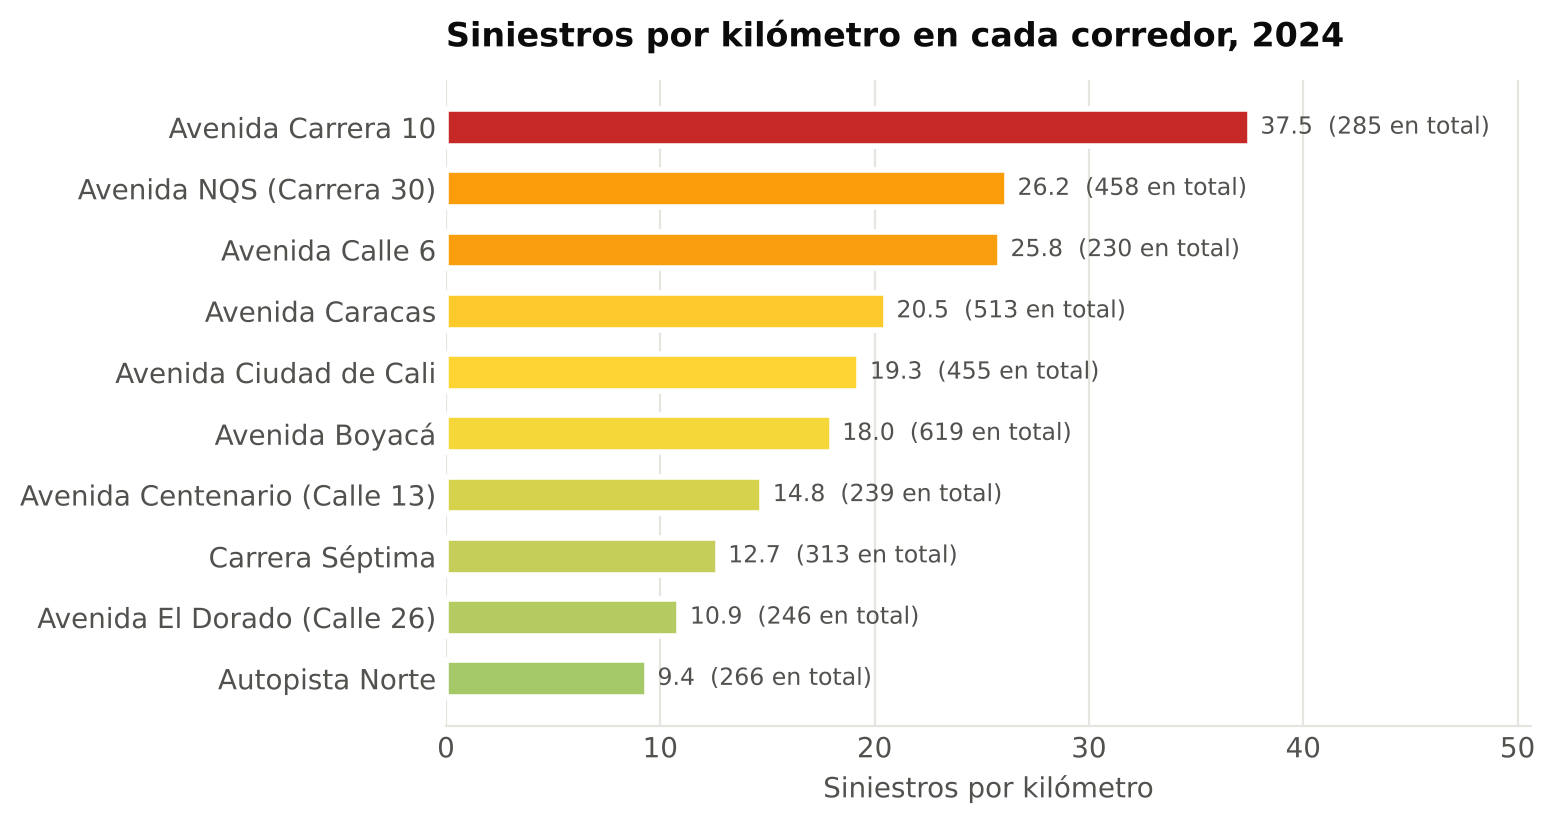
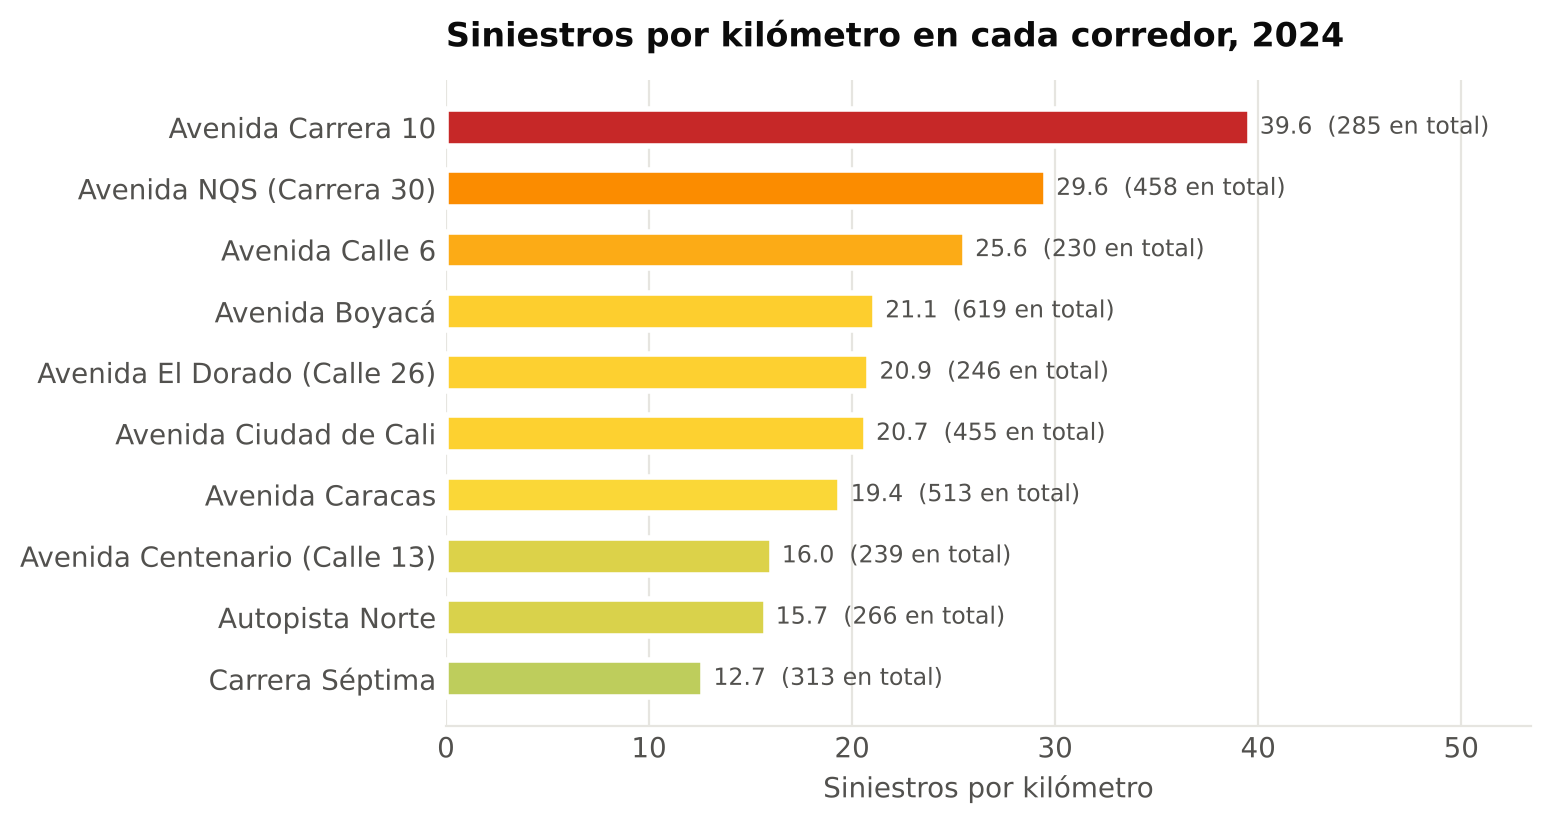
Longitudes de los corredores desde la Malla Vial Integral de Bogotá; H1 recalculada

diff --git a/docs/main.tex b/docs/main.tex
@@ -789,16 +789,16 @@ apariciones, sin realizar una selección aleatoria.
 \textbf{Orden} & \textbf{Corredor} & \textbf{Apariciones} & \textbf{Longitud}\newline\textbf{(km)}\\
 \midrule
 \endhead
-1 & Avenida Boyacá & 637 & 34,4\\
-2 & Avenida Caracas & 525 & 25,0\\
-3 & Avenida Ciudad de Cali & 470 & 23,6\\
-4 & Avenida NQS (Carrera 30) & 467 & 17,5\\
+1 & Avenida Boyacá & 637 & 29,3\\
+2 & Avenida Caracas & 525 & 26,4\\
+3 & Avenida Ciudad de Cali & 470 & 22,0\\
+4 & Avenida NQS (Carrera 30) & 467 & 15,5\\
 5 & Carrera Séptima & 316 & 24,7\\
-6 & Avenida Carrera 10 & 297 & 7,6\\
-7 & Avenida El Dorado (Calle 26) & 288 & 22,6\\
-8 & Avenida Calle 6 & 274 & 8,9\\
-9 & Autopista Norte & 267 & 28,4\\
-10 & Avenida Centenario (Calle 13) & 259 & 16,2\\
+6 & Avenida Carrera 10 & 297 & 7,2\\
+7 & Avenida El Dorado (Calle 26) & 288 & 11,8\\
+8 & Avenida Calle 6 & 274 & 9,0\\
+9 & Autopista Norte & 267 & 16,9\\
+10 & Avenida Centenario (Calle 13) & 259 & 14,9\\
 \bottomrule
 \end{longtable}
 \endgroup
@@ -813,15 +813,19 @@ de la tabla \ref{tab:seleccion-corredores} no deben sumarse como eventos
 únicos ni confundirse con las frecuencias de la tabla
 \ref{tab:distribucion-corredores}.
 
-Las longitudes se incorporaron del archivo de insumos externos del
-proyecto. Este registra OpenStreetMap como fuente para ocho corredores
-y Wikipedia para la Avenida Caracas, e incluye notas sobre los tramos
-considerados en Ciudad de Cali y Centenario. Para la Avenida Boyacá se
-usaron los 34,4 km de su troncal entre Yomasa y la Calle 170, según la
-\citet{alcaldiaboyaca}. Esta longitud oficial reemplazó la medición
-de OpenStreetMap (52,1 km), que incluía tramos con otro nombre oficial. Se emplearon como
-longitudes de referencia: no se realizó una nueva medición cartográfica
-ni una homologación de sus límites en esta etapa. Las tasas por kilómetro
+Las longitudes se midieron sobre la Malla Vial Integral de Bogotá
+\citep{ideca}, la capa oficial de la red vial de la ciudad, que trae cada
+tramo con su nombre y geometría. Para cada corredor se sumó la longitud
+del eje, contando una sola vez las vías de doble calzada. Una primera
+versión del proyecto usaba longitudes de OpenStreetMap que, en varios
+corredores, sumaban ambas calzadas o tramos con otro nombre oficial; por
+ejemplo, El Dorado pasó de 22,6 a 11,8 km y Autopista Norte de 28,4 a
+16,9 km. Como control, se verificó qué parte de los siniestros asignados
+a cada corredor cae a menos de 150 m de su eje: entre el 89\,\% y el
+97\,\% en ocho corredores, el 80\,\% en la Séptima, cuyo eje oficial
+empieza en el centro, y el 76\,\% en la Calle 6, cuyo trazado combina
+tramos con varios nombres. En Centenario, la longitud incluye la Avenida
+Colón y el tramo occidental. Las tasas por kilómetro
 son sensibles a esa delimitación y no sustituyen una medida de exposición
 basada en flujos de tránsito.
 
@@ -924,16 +928,16 @@ asociaciones estadísticas ni relaciones causales.
 \textbf{Corredor} & \textbf{Eventos} & \textbf{\%} & \textbf{km} & \textbf{Por km}\\
 \midrule
 \endhead
-Avenida Boyacá & 619 & 17,08 & 34,4 & 17,99\\
-Avenida Caracas & 513 & 14,16 & 25,0 & 20,52\\
-Avenida NQS (Carrera 30) & 458 & 12,64 & 17,5 & 26,17\\
-Avenida Ciudad de Cali & 455 & 12,56 & 23,6 & 19,28\\
+Avenida Boyacá & 619 & 17,08 & 29,3 & 21,13\\
+Avenida Caracas & 513 & 14,16 & 26,4 & 19,43\\
+Avenida NQS (Carrera 30) & 458 & 12,64 & 15,5 & 29,55\\
+Avenida Ciudad de Cali & 455 & 12,56 & 22,0 & 20,68\\
 Carrera Séptima & 313 & 8,64 & 24,7 & 12,67\\
-Avenida Carrera 10 & 285 & 7,86 & 7,6 & 37,50\\
-Autopista Norte & 266 & 7,34 & 28,4 & 9,37\\
-Avenida El Dorado (Calle 26) & 246 & 6,79 & 22,6 & 10,88\\
-Avenida Centenario (Calle 13) & 239 & 6,59 & 16,2 & 14,75\\
-Avenida Calle 6 & 230 & 6,35 & 8,9 & 25,84\\
+Avenida Carrera 10 & 285 & 7,86 & 7,2 & 39,58\\
+Autopista Norte & 266 & 7,34 & 16,9 & 15,74\\
+Avenida El Dorado (Calle 26) & 246 & 6,79 & 11,8 & 20,85\\
+Avenida Centenario (Calle 13) & 239 & 6,59 & 14,9 & 16,04\\
+Avenida Calle 6 & 230 & 6,35 & 9,0 & 25,56\\
 \midrule
 Total & 3.624 & 100,00 & & \\
 \bottomrule
@@ -950,8 +954,8 @@ de conteo.
 La tasa descriptiva se calculó como $T_c=n_c/L_c$, donde $n_c$ es el
 número anual de eventos asignados al corredor y $L_c$ su longitud de
 referencia en kilómetros. Al ajustar por longitud, los tres mayores
-valores correspondieron a Carrera 10 (37,50), NQS (26,17) y Calle 6
-(25,84), como muestra la figura \ref{fig:oe2-corredores}. Boyacá lideró
+valores correspondieron a Carrera 10 (39,58), NQS (29,55) y Calle 6
+(25,56), como muestra la figura \ref{fig:oe2-corredores}. Boyacá lideró
 el volumen absoluto, pero su mayor longitud hizo que no liderara este
 indicador. Se trata de concentración de registros por unidad de longitud;
 sin aforos de vehículos o personas no puede interpretarse como
@@ -1216,7 +1220,7 @@ confianza bilateral del 95\,\% \citep{statsmodels}.
 \textbf{Prueba} & \textbf{Estadístico} & \textbf{p ajustado} & \textbf{Efecto} & \textbf{Decisión}\\
 \midrule
 \endhead
-H1 & $\chi^2=510{,}000$ & $1{,}66\times10^{-103}$ & $w=0{,}375$ & Rechazar $H_0$\\
+H1 & $\chi^2=311{,}648$ & $3{,}52\times10^{-61}$ & $w=0{,}293$ & Rechazar $H_0$\\
 H2a & $\chi^2=77{,}228$ & $7{,}06\times10^{-13}$ & $V=0{,}103$ & Rechazar $H_0$\\
 H2b & $\chi^2=32{,}211$ & $4{,}05\times10^{-7}$ & $V=0{,}094$ & Rechazar $H_0$\\
 H3 & $z=11{,}624$ & $6{,}19\times10^{-31}$ & $OR=4{,}257$ & Rechazar $H_0$\\
@@ -1224,15 +1228,19 @@ H3 & $z=11{,}624$ & $6{,}19\times10^{-31}$ & $OR=4{,}257$ & Rechazar $H_0$\\
 \end{longtable}
 \endgroup
 
-En H1, $\chi^2(9)=510{,}000$ permitió rechazar la proporcionalidad
-por longitud. Carrera 10 registró 285 eventos frente a 131,8 esperados;
-NQS, 458 frente a 303,6; y Calle 6, 230 frente a 154,4.
+En H1, $\chi^2(9)=311{,}648$ permitió rechazar la proporcionalidad
+por longitud. Carrera 10 registró 285 eventos frente a 146,8 esperados;
+NQS, 458 frente a 316,1; y Calle 6, 230 frente a 183,5. El exceso de
+la Calle 6 es el menos firme: si se cuentan solo los siniestros situados
+a menos de 150 m de su eje, prácticamente coincide con lo esperado.
 Sus residuos positivos indican un exceso respecto de ese modelo,
 no respecto de la cantidad de usuarios que circulan por cada vía.
 Boyacá tuvo el mayor volumen absoluto, pero un número cercano al
-esperado por su longitud: 619 frente a 596,8. Los mayores déficits
-correspondieron a Autopista Norte (266 frente a 492,7) y El Dorado
-(246 frente a 392,1). El efecto $w=0{,}375$ describe la desviación global, sin equipararlo
+esperado por su longitud: 619 frente a 597,5; lo mismo ocurrió con El
+Dorado y Ciudad de Cali. Los mayores déficits correspondieron a la
+Séptima (313 frente a 503,7), Autopista Norte (266 frente a 344,7) y
+Centenario (239 frente a 303,9). El efecto $w=0{,}293$, pequeño según
+los umbrales adoptados, describe la desviación global, sin equipararlo
 a una probabilidad de accidente ni compararlo directamente con V.
 
 \begin{figure}[H]
@@ -1638,12 +1646,12 @@ causales.
 En la dimensión espacial, Boyacá fue el corredor con mayor número absoluto
 de eventos (619), seguido por Caracas (513) y NQS (458). Sin embargo, el
 riesgo operacional no puede inferirse únicamente de estos totales. Al ajustar
-por longitud, Carrera 10 obtuvo la mayor concentración descriptiva (37,50
-eventos por kilómetro), seguida por NQS (26,17) y Calle 6 (25,84). La
+por longitud, Carrera 10 obtuvo la mayor concentración descriptiva (39,58
+eventos por kilómetro), seguida por NQS (29,55) y Calle 6 (25,56). La
 hipótesis H1 confirmó que la distribución observada no es proporcional a la
-longitud de los corredores: $\chi^2(9)=510{,}000$, $p=1{,}66\times10^{-103}$
-y $w=0{,}375$. Los excesos de Carrera 10, NQS y Calle 6, y los déficits de
-Autopista Norte y El Dorado, son consistentes con la concentración por kilómetro; no indican
+longitud de los corredores: $\chi^2(9)=311{,}648$, $p=3{,}52\times10^{-61}$
+y $w=0{,}293$. Los excesos de Carrera 10 y NQS, el menos firme de la Calle 6
+y los déficits de la Séptima y Autopista Norte son consistentes con la concentración por kilómetro; no indican
 por sí solos mayor probabilidad de siniestro para una persona que transita,
 dado que no se contó con aforos ni exposición vehicular.
 
@@ -1812,8 +1820,8 @@ muertos. La tabla \ref{tab:oe6-propuestas} las resume.
 
 \paragraph{1. Intervención en los cruces densos de las avenidas cortas.}
 La Carrera 10, la NQS y la Calle 6 tienen más siniestros de los que
-corresponden a su longitud: 285 frente a 131,8 esperados en la Carrera
-10, 458 frente a 303,6 en la NQS y 230 frente a 154,4 en la Calle 6. El
+corresponden a su longitud: 285 frente a 146,8 esperados en la Carrera
+10, 458 frente a 316,1 en la NQS y 230 frente a 183,5 en la Calle 6. El
 cruce de la Carrera 10 con Calle 1 es la zona más densa de la base, con
 73 siniestros, de los cuales el 11,0\,\% tuvo muertos. Se propone hacer
 auditorías de seguridad vial en las diez zonas densas que lista el
@@ -1876,7 +1884,7 @@ propuestas se cumple el entregable del sexto objetivo.
 \begin{enumerate}[leftmargin=*,itemsep=6pt]
 \item Después del proceso de preparación y depuración, se obtuvieron 3.624 siniestros únicos registrados durante 2024 en diez corredores viales. Aunque se logró organizar y validar la información, es importante aclarar que estos datos no representan la totalidad de los siniestros en Bogotá, ya que el estudio se concentra únicamente en los corredores seleccionados.
 
-\item Las avenidas Boyacá, Caracas y NQS registraron la mayor cantidad de siniestros y concentraron en conjunto el 43,87\,\% de los casos. Sin embargo, al dividir por la longitud, la Carrera 10 presentó la mayor concentración (37,50 siniestros por kilómetro). Esto muestra que el total de siniestros de un corredor no basta para compararlo con otros: también debe considerarse su longitud.
+\item Las avenidas Boyacá, Caracas y NQS registraron la mayor cantidad de siniestros y concentraron en conjunto el 43,87\,\% de los casos. Sin embargo, al dividir por la longitud, la Carrera 10 presentó la mayor concentración (39,58 siniestros por kilómetro). Esto muestra que el total de siniestros de un corredor no basta para compararlo con otros: también debe considerarse su longitud.
 
 \item Los resultados muestran que el mediodía presentó la mayor cantidad de siniestros, seguido de la tarde. Esto indica que durante estos periodos se registra una actividad importante de siniestros viales. Sin embargo, para determinar si existe una mayor probabilidad de ocurrencia en estas horas, sería necesario contar con información adicional sobre el flujo vehicular.
 
@@ -1898,10 +1906,6 @@ propuestas se cumple el entregable del sexto objetivo.
 
 \clearpage
 \begin{thebibliography}{99}
-\bibitem[Alcaldía Mayor de Bogotá(s.f.)]{alcaldiaboyaca}
-Alcaldía Mayor de Bogotá. (s.f.). Distrito licitará 28,7 kms. de 34,4 kms. de la troncal avenida Boyacá.
-\url{https://bogota.gov.co/mi-ciudad/obras/distrito-licitara-287-kms-de-344-kms-de-la-troncal-avenida-boyaca}
-
 \bibitem[Bejar Gladkowski(2023)]{bejar2023}
 Bejar Gladkowski, A. A. (2023). Análisis predictivo de accidentes de
   tráfico en la ciudad de Madrid {[}Trabajo de fin de grado, Universitat
@@ -1933,6 +1937,11 @@ Proceedings of KDD-96 (pp.~226--231). AAAI Press.
 Han, J., Pei, J., \& Yin, Y. (2000). Mining frequent patterns without candidate generation.
 Proceedings of ACM SIGMOD (pp.~1--12).
 \url{https://doi.org/10.1145/342009.335372}
+
+\bibitem[IDECA(s.f.)]{ideca}
+Infraestructura de Datos Espaciales de Bogotá (IDECA), Unidad Administrativa Especial de Catastro Distrital. (s.f.).
+\emph{Malla Vial Integral de Bogotá D.C.} [Capa geográfica]. Consultada el 25 de noviembre de 2026.
+\url{https://serviciosgis.catastrobogota.gov.co/arcgis/rest/services/Mapa_Referencia/Mapa_Referencia/MapServer/13}
 
 \bibitem[Job(2022)]{job2022}
 Job, R. F. S. (2022). Evaluations of speed camera interventions can

diff --git a/README.md b/README.md
@@ -132,7 +132,7 @@ python -m streamlit run src/siniestralidad/app.py
 
 ## 🔎 Resultados principales
 
-- **H1:** los siniestros no se reparten según la longitud de los corredores (χ² = 510,0; w = 0,375). La Carrera 10, la NQS y la Calle 6 tienen muchos más de los esperados.
+- **H1:** los siniestros no se reparten según la longitud de los corredores (χ² = 311,6; w = 0,293, con longitudes de la Malla Vial Integral de Bogotá). La Carrera 10 y la NQS tienen muchos más de los esperados, y la Calle 6 un exceso menor.
 - **H2:** la gravedad depende de la franja (V = 0,10) y del tipo de día (V = 0,09). Las noches de fin de semana tienen más siniestros con muertos (7,4 % frente a 5,2 %).
 - **H3:** con motocicleta, el 96 % de los siniestros tiene víctimas, frente al 85 % sin ella (razón de momios 4,26).
 - **Perfiles:** 7 perfiles con K-means; el de atropellos es el más grave (11,5 % con muertos). DBSCAN encuentra 62 zonas densas; la mayor es la Carrera 10 con Calle 1 (73 siniestros).
